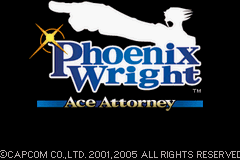
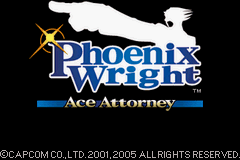
Title: fit the DS copyright line into 240 px by narrowing word gaps
Claude-Session: https://claude.ai/code/session_01SUsKQpDV9RG9kScWUHPdGG

Changed region(s): [[0.35, 0.9375, 1.0, 1.0], [0.0, 0.9375, 0.2042, 1.0]]

diff --git a/tools/en/make_title.py b/tools/en/make_title.py
@@ -31,9 +31,13 @@ logo = src.crop((4, 14, 252, 165))
 scale = 111 / logo.height
 logo = logo.resize((round(logo.width * scale), 111), Image.LANCZOS)
 out.paste(logo, ((240 - logo.width) // 2, 0))
-# copyright line, unscaled, at the bottom
-cr = src.crop((8, 180, 248, 191))
-out.paste(cr, (0, 149))
+# copyright line, unscaled, at the bottom. It is 245 px wide on the DS, so
+# narrow each of the five word gaps (3-4 px) by 1 px to fit the GBA's 240 px.
+drop = {55, 94, 145, 166, 201}
+keep = [x for x in range(7, 252) if x not in drop]
+s = np.array(src)[180:192]
+cr = Image.fromarray(s[:, keep])
+out.paste(cr, ((240 - len(keep)) // 2, 149))
 # 15-bit colour, then a 255-colour palette with black at index 0
 a = (np.array(out) >> 3) << 3
 q = Image.fromarray(a.astype(np.uint8)).quantize(colors=255, method=Image.MEDIANCUT, dither=Image.NONE)

diff --git a/include/graphics.h b/include/graphics.h
@@ -13,6 +13,8 @@
 
 
 
+
+
 // English patch relocations (tools/en/relocate_assets.py)
 extern u8 gPalTitleScreen_en[];
 extern u8 gGfx8lzTitleScreen_en[];
